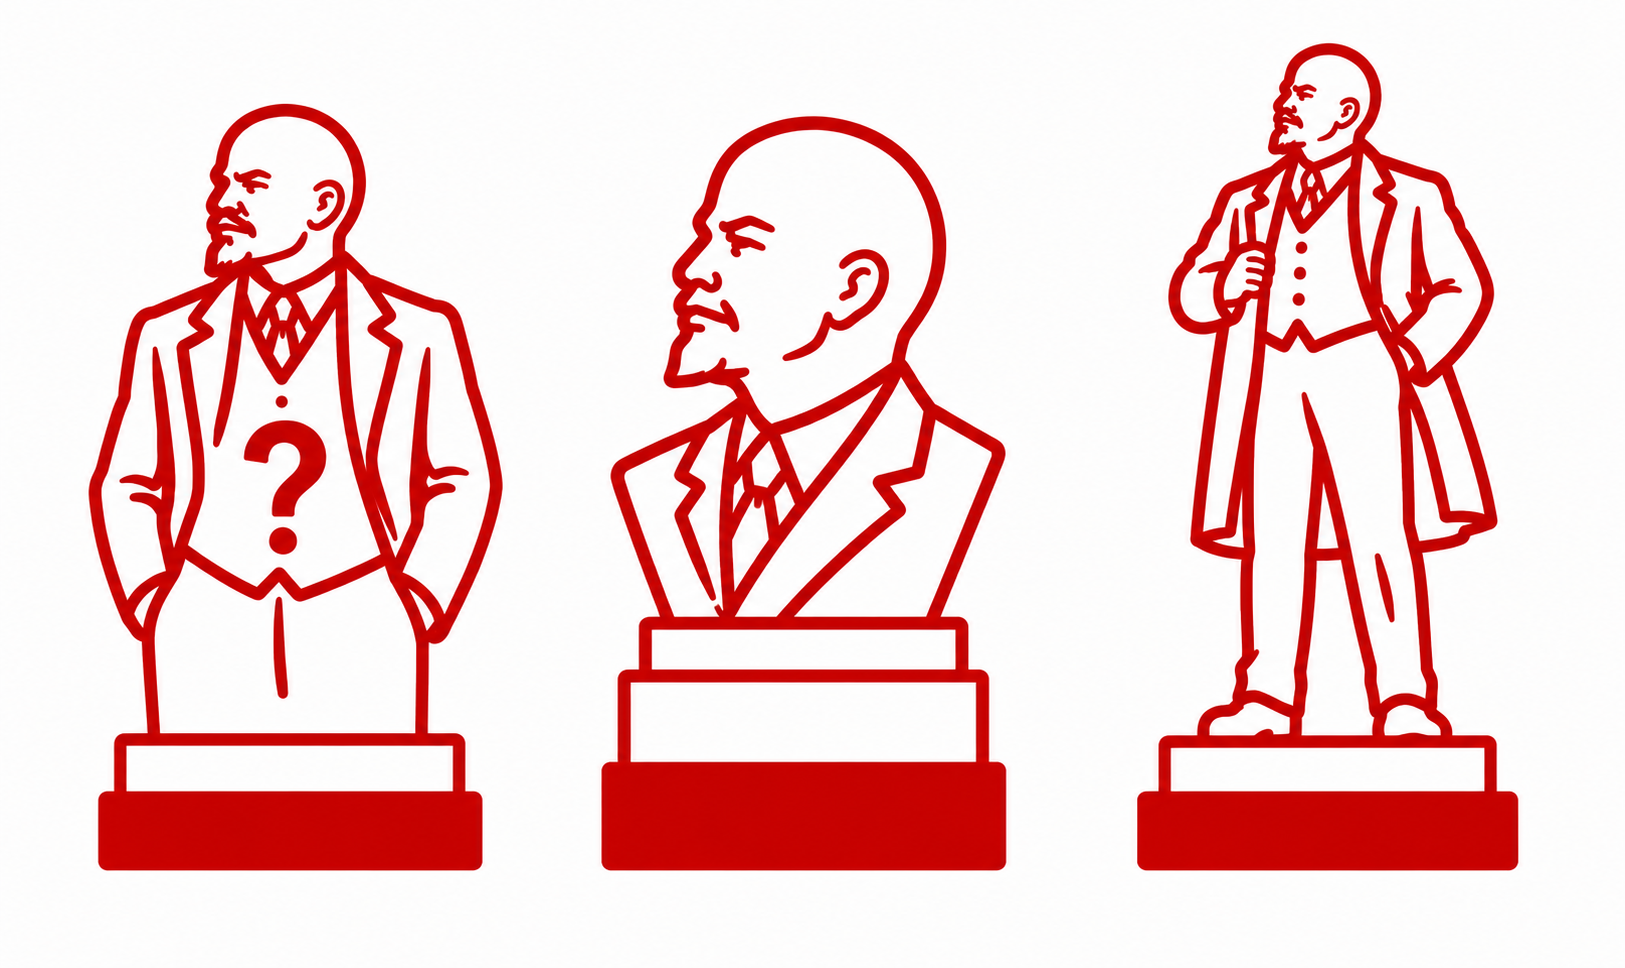
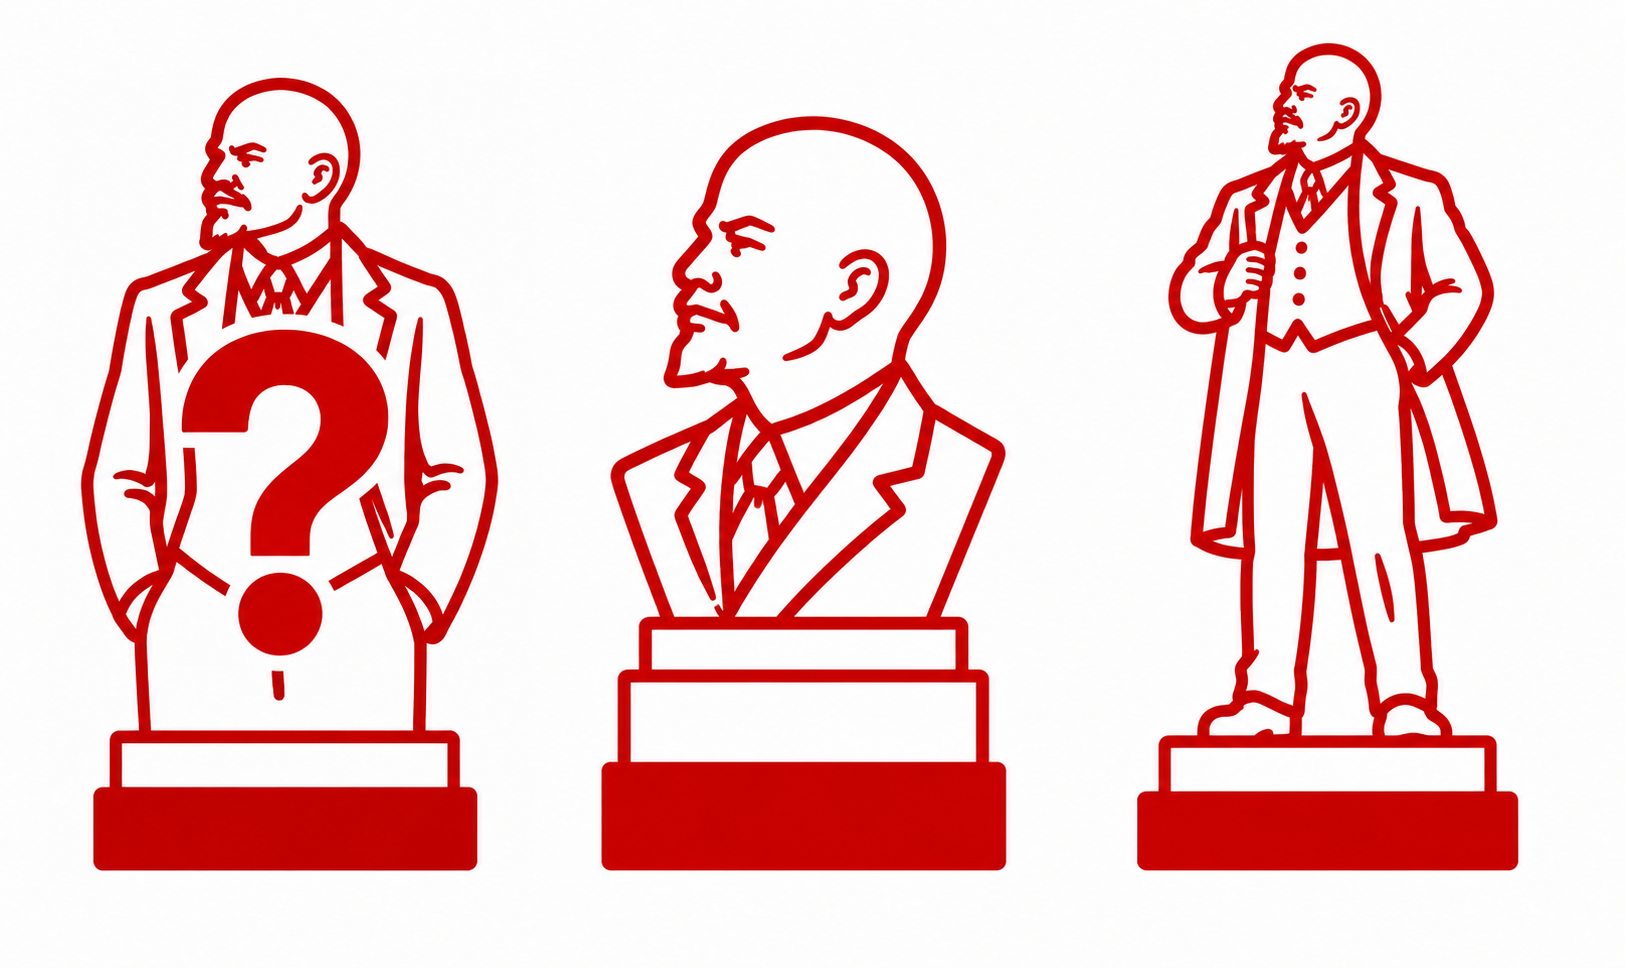
legend changed

Changed region(s): [[0.0308, 0.062, 0.3077, 0.8988], [0.0308, 0.8368, 0.0615, 0.8988]]

diff --git a/css/style.css b/css/style.css
@@ -69,19 +69,6 @@ body {
 .leaflet-popup-content strong {
     color: #1e3c4a;
 }
-.legend-info {
-    position: absolute;
-    bottom: 25px;
-    right: 15px;
-    background: rgba(255,255,255,0.9);
-    padding: 8px 14px;
-    border-radius: 8px;
-    font-size: 12px;
-    z-index: 1000;
-    backdrop-filter: blur(4px);
-    border-left: 4px solid #cd5c5c;
-    pointer-events: none;
-}
 .footer-note {
     position: absolute;
     bottom: 10px;
@@ -120,10 +107,6 @@ body {
 @media (max-width: 600px) {
     .map-header h1 {
         font-size: 1.2rem;
-    }
-    .legend-info {
-        font-size: 10px;
-        padding: 4px 10px;
     }
     .filter-btn {
         padding: 4px 12px;
@@ -206,4 +189,7 @@ body {
     height: 55px;
     display: block;
     filter: drop-shadow(0 2px 4px rgba(0,0,0,0.6));
+}
+.leaflet-control-attribution .leaflet-attribution-flag {
+    display: none !important;
 }

diff --git a/js/script.js b/js/script.js
@@ -87,7 +87,11 @@ function initMap() {
         attribution: '&copy; <a href="https://www.openstreetmap.org/copyright">OSM</a> &copy; CartoDB',
         subdomains: 'abcd', maxZoom: 18, minZoom: 10
     }).addTo(map);
-    markersCluster = L.markerClusterGroup({ chunkedLoading: true, maxClusterRadius: 50 });
+	markersCluster = L.markerClusterGroup({
+    chunkedLoading: true,
+    maxClusterRadius: 35,
+    disableClusteringAtZoom: 15   // при зуме >=15 кластеры не создаются
+	});
     map.addLayer(markersCluster);
 }
 
@@ -337,8 +341,8 @@ function updateFilterCounter() {
     const existsBtn = document.querySelector('.filter-btn[data-filter="существует"]');
     const lostBtn = document.querySelector('.filter-btn[data-filter="утрачен"]');
     if (allBtn) allBtn.innerHTML = `Все точки (${allCount})`;
-    if (existsBtn) existsBtn.innerHTML = `🟢 Существующие (${existsCount})`;
-    if (lostBtn) lostBtn.innerHTML = `🔴 Утраченные (${lostCount})`;
+    if (existsBtn) existsBtn.innerHTML = `🔴 Существующие (${existsCount})`;
+    if (lostBtn) lostBtn.innerHTML = `🔘 Утраченные (${lostCount})`;
 }
 
 function bindFilterButtons() {

diff --git a/index.html b/index.html
@@ -18,17 +18,16 @@
 </head>
 <body>
 <div class="map-header">
-    <h1>🗿 Памятники Ленину в Москве</h1>
-    <p>📌 Данные из GitHub репозитория | 🟢 существует / 🔴 утрачен | клик по маркеру</p>
+    <h1>Памятники Ленину в Москве</h1>
+    <p>📌 Данные из GitHub репозитория | для информации - клик по маркеру</p>
 </div>
 <div class="filter-bar">
     <button class="filter-btn active" data-filter="all">Все точки</button>
-    <button class="filter-btn" data-filter="существует">🟢 Существующие</button>
-    <button class="filter-btn" data-filter="утрачен">🔴 Утраченные</button>
+    <button class="filter-btn" data-filter="существует">🔴 Существующие</button>
+    <button class="filter-btn" data-filter="утрачен">🔘 Утраченные</button>
     <button class="filter-btn reset-btn" data-filter="reset">⟳ Сбросить фильтр</button>
 </div>
 <div id="map"></div>
-<div class="legend-info">🔴 Утрачен &nbsp;|&nbsp; 🟢 Сохранился &nbsp;|&nbsp; ⚪ Не указано</div>
 <div class="footer-note">Источник: GitHub | Всего точек: <span id="totalCount">0</span></div>
 <div id="loading-overlay" class="loading-overlay"><div>📡 Загрузка данных из репозитория...</div><div style="font-size:0.8rem;">Пожалуйста, подождите</div></div>
 </body>